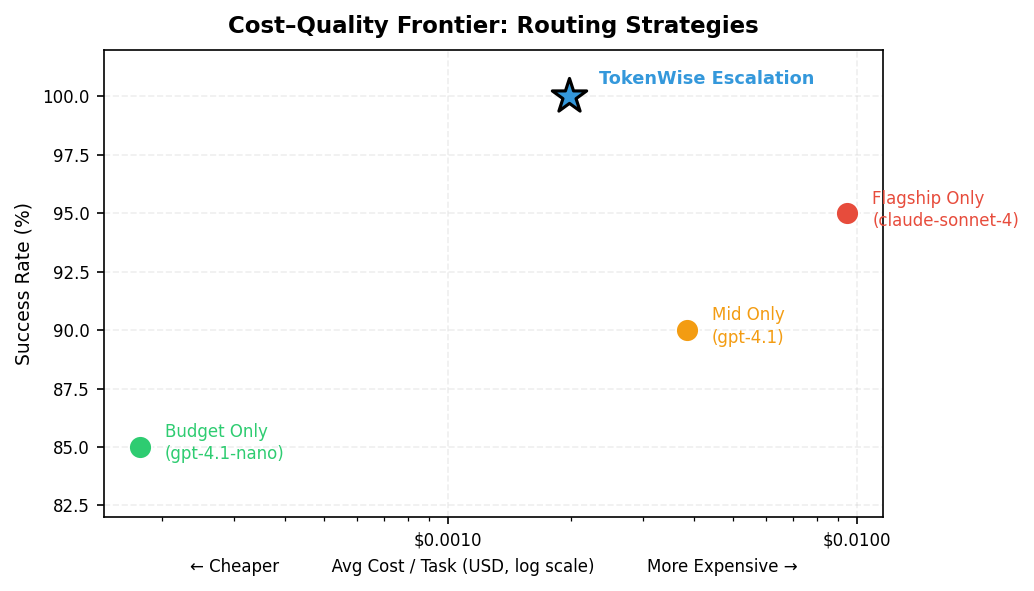
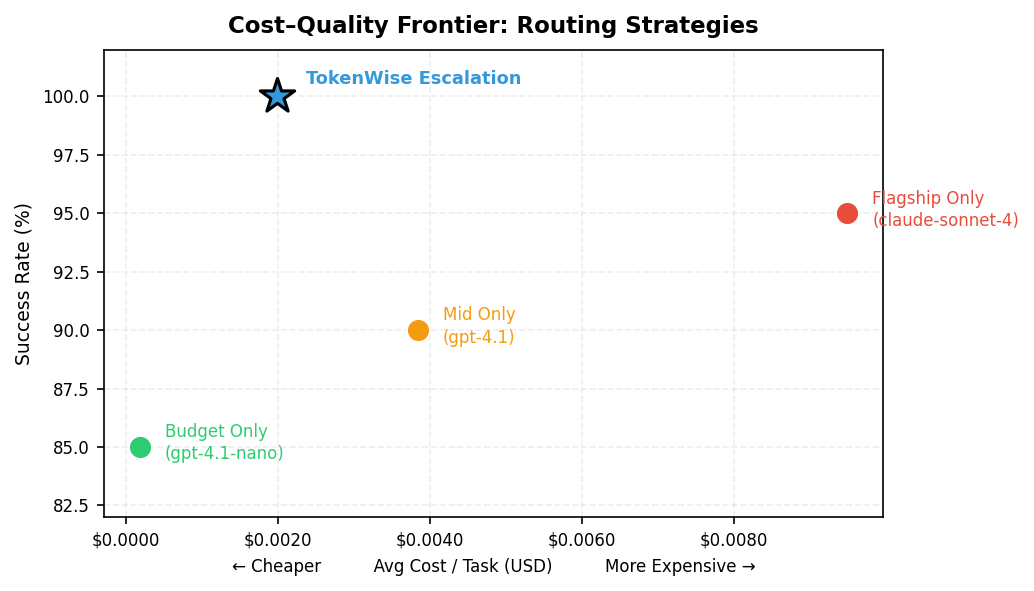
bench: switch plot to linear x-axis to show cost gap visually

diff --git a/benchmarks/strategy_pareto.py b/benchmarks/strategy_pareto.py
@@ -530,9 +530,8 @@ def plot_pareto(strategies: dict[str, StrategyResult], output_path: str) -> None
             linespacing=1.3,
         )
 
-    ax.set_xscale("log")
     ax.set_xlabel(
-        "\u2190 Cheaper          Avg Cost / Task (USD, log scale)"
+        "\u2190 Cheaper          Avg Cost / Task (USD)"
         "          More Expensive \u2192",
         fontsize=8,
     )

diff --git a/README.md b/README.md
@@ -144,7 +144,7 @@ response = client.chat.completions.create(
 
 ![Routing Strategies](assets/pareto.png)
 
-*X-axis: average cost per task (USD, log scale). Y-axis: success rate (%).
+*X-axis: average cost per task (USD). Y-axis: success rate (%).
 The star marks the TokenWise escalation strategy, which uses `Router.route()`
 with escalating strategies (cheapest → balanced → best_quality) and retries
 on validation failure. Baselines use a single fixed model for all tasks.*
